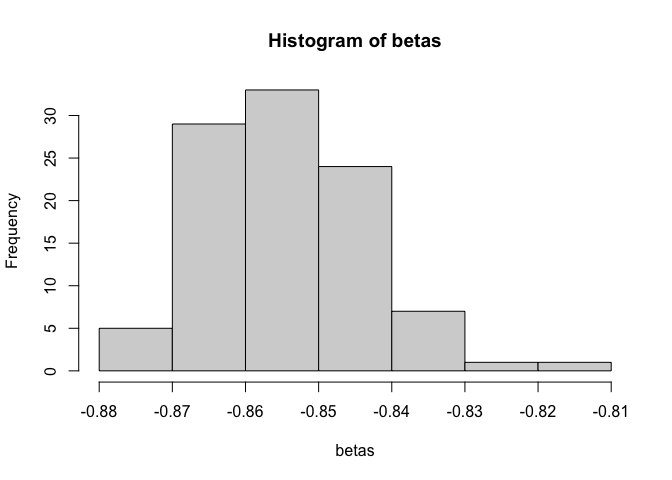
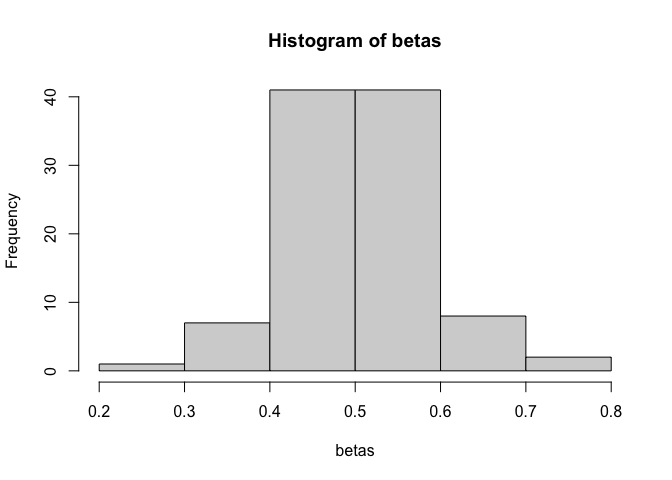
updated parameters in example in README

diff --git a/README.md b/README.md
@@ -43,8 +43,11 @@ Simulate 100 cases from a RELCS model:
 
     simulated_data <- simulateDataFromRELCS(N = 100, 
                                             num.obs = 5, 
-                                            residualerrorvariance = .1,
+                                            residualerrorvariance = .01,
                                             selffeedback.mean = .5,
+                                            selffeedback.variance = .01,
+                                            interceptmu = 0,
+                                            interceptvariance = 1,
                                             has.slope=FALSE)
 
 Plot the first 20 simulated trajectories:
@@ -73,22 +76,22 @@ Plot the first 20 simulated trajectories:
     #> 3 chains, each with iter=600; warmup=200; thin=1; 
     #> post-warmup draws per chain=400, total post-warmup draws=1200.
     #> 
-    #>                 mean se_mean     sd   2.5%    25%    50%    75%   97.5% n_eff
-    #> residual_var    0.10    0.00   0.01   0.08   0.09   0.10   0.10    0.11    51
-    #> self_fb_mu     -0.93    0.38   0.56  -1.82  -1.36  -0.93  -0.44   -0.03     2
-    #> self_fb_var     0.03    0.02   0.05   0.00   0.00   0.01   0.04    0.19     9
-    #> intercept_mu    0.03    0.01   0.03  -0.02   0.01   0.03   0.05    0.09    21
-    #> intercept_var   0.01    0.00   0.01   0.00   0.00   0.00   0.01    0.03     5
-    #> lp__          817.25  139.56 186.93 538.94 668.82 778.50 982.37 1138.14     2
-    #>               Rhat
-    #> residual_var  1.05
-    #> self_fb_mu    2.86
-    #> self_fb_var   1.21
-    #> intercept_mu  1.28
-    #> intercept_var 1.40
-    #> lp__          2.74
+    #>                  mean se_mean    sd   2.5%     25%     50%     75%   97.5%
+    #> residual_var     0.01    0.00  0.00   0.01    0.01    0.01    0.01    0.01
+    #> self_fb_mu       0.51    0.00  0.01   0.48    0.50    0.51    0.51    0.53
+    #> self_fb_var      0.01    0.00  0.00   0.01    0.01    0.01    0.01    0.01
+    #> intercept_mu     0.02    0.00  0.10  -0.18   -0.06    0.02    0.09    0.22
+    #> intercept_var    1.12    0.00  0.14   0.86    1.02    1.12    1.21    1.42
+    #> lp__          1013.37    0.65 12.10 988.14 1005.33 1013.90 1021.96 1035.02
+    #>               n_eff Rhat
+    #> residual_var    672 1.00
+    #> self_fb_mu     1480 1.00
+    #> self_fb_var     737 1.01
+    #> intercept_mu   1396 1.00
+    #> intercept_var  1556 1.00
+    #> lp__            348 1.00
     #> 
-    #> Samples were drawn using NUTS(diag_e) at Thu Mar 25 20:26:07 2021.
+    #> Samples were drawn using NUTS(diag_e) at Thu Mar 25 20:49:04 2021.
     #> For each parameter, n_eff is a crude measure of effective sample size,
     #> and Rhat is the potential scale reduction factor on split chains (at 
     #> convergence, Rhat=1).
@@ -111,7 +114,7 @@ Get the beta values from the model and obtain summary.
     betas <- get_beta_estimates(fit_with_beta)
     summary(betas)
     #>    Min. 1st Qu.  Median    Mean 3rd Qu.    Max. 
-    #> -0.8776 -0.8620 -0.8548 -0.8540 -0.8472 -0.8184
+    #>  0.2056  0.4603  0.5034  0.5051  0.5626  0.7720
     hist(betas)
 
 ![](README_files/figure-markdown_strict/unnamed-chunk-9-1.png)
